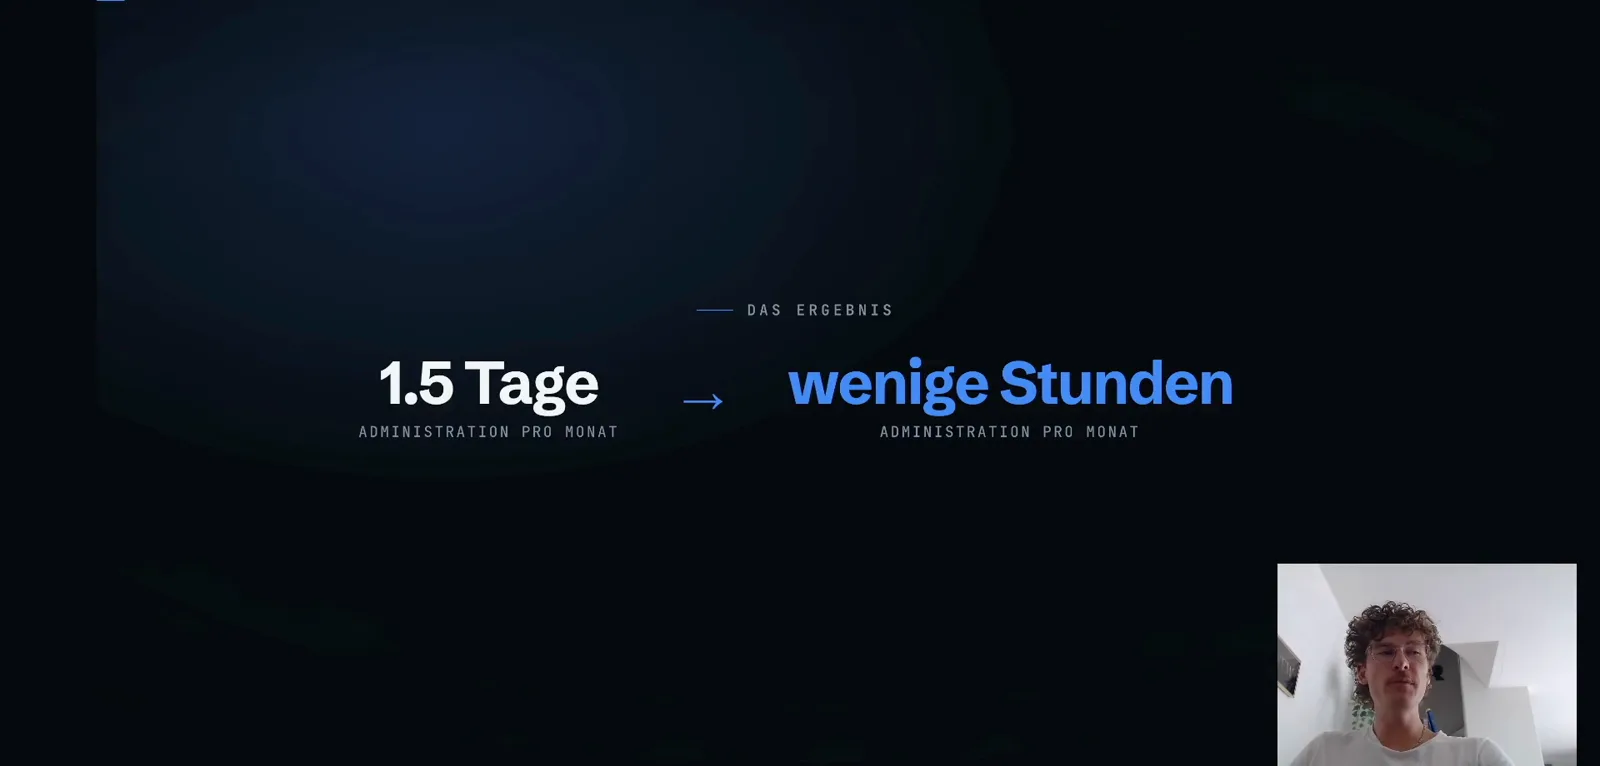
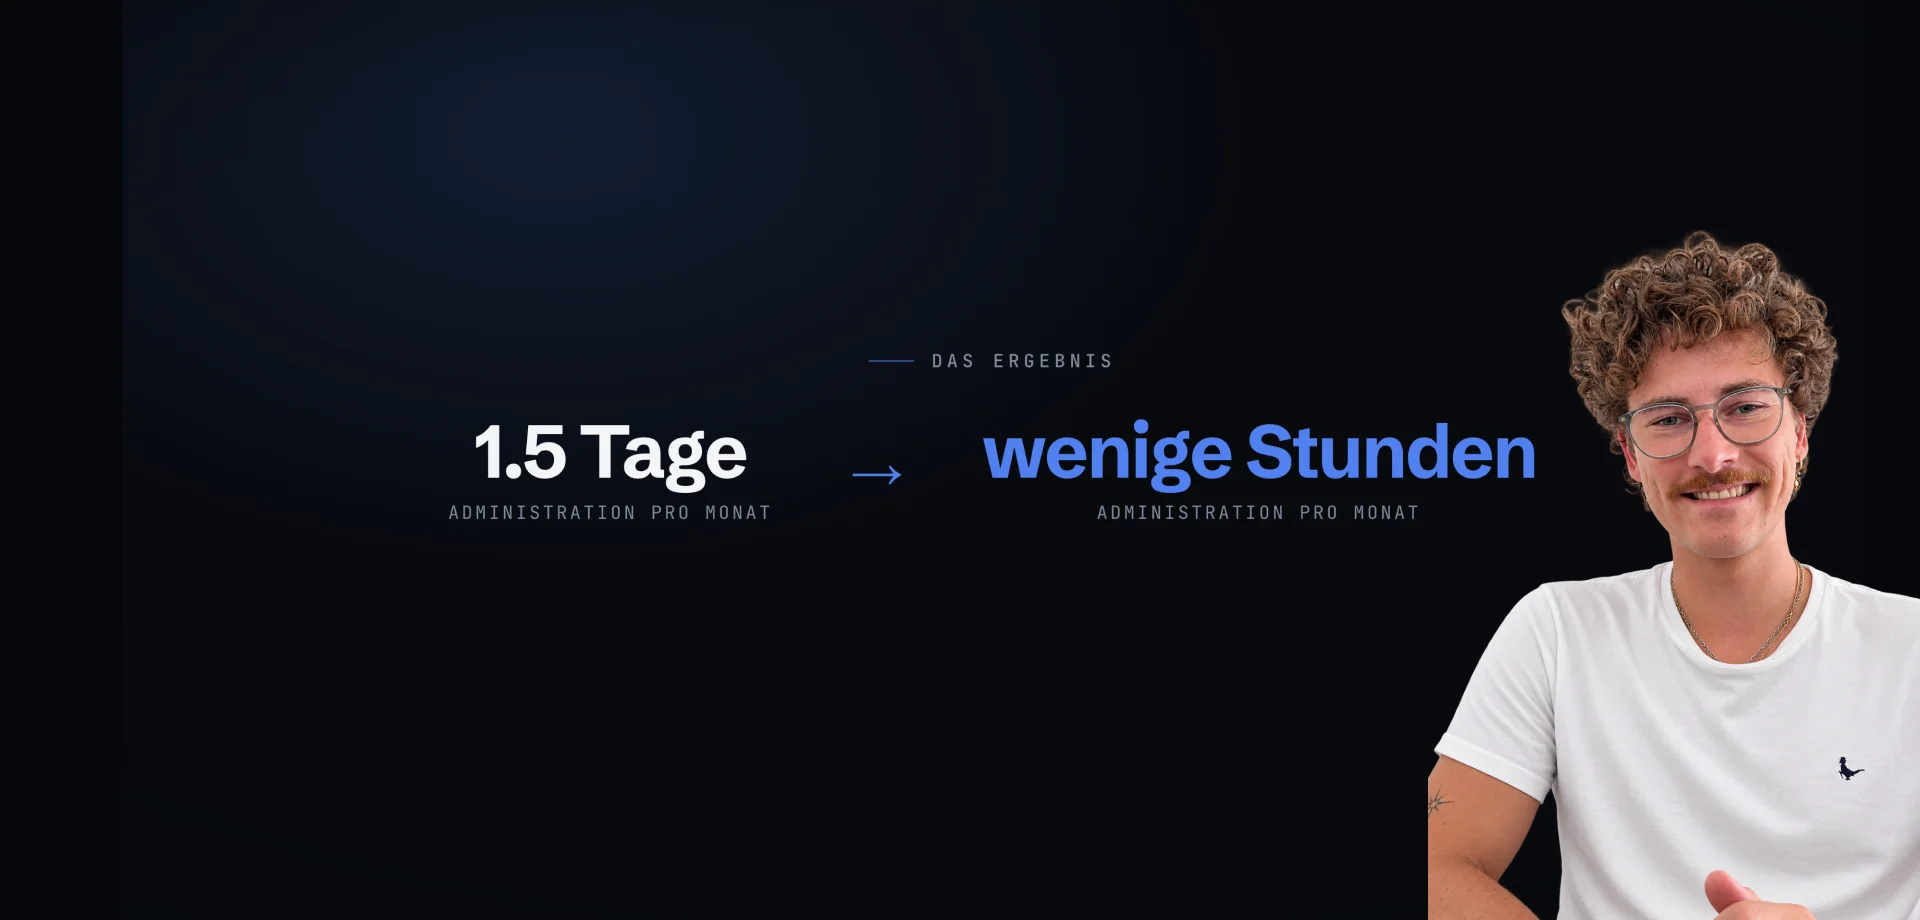
oco-start: eigenes Startbild, Reply-To und Ads-Leads aus der Kundenpipeline
Drei Korrekturen nach Durchsicht:

Startbild: eigens gestaltetes Thumbnail statt eines aus dem Video gegriffenen
Standbilds. Aussage links, Sprecher rechts freigestellt, Bildmitte frei — dort
sitzt der Play-Button, der vorher auf jedem Videostandbild im Text lag. Format
1920x920, identisch zum Video; als WebP 43 KB statt 641 KB PNG.
Das ungenutzte Feld poster.duration ist entfallen (die Laufzeit stand seit dem
Entfernen der Bild-Labels nirgends mehr).

Reply-To der Video-Mail auf info@trendingmedia.ch. Die Absenderadresse
demo@oneclick-office.ch ist faktisch ein unbetreutes Postfach — Antworten
waeren dort versandet.

Ads-Leads legen keinen Kunden mehr an: Der Trigger leads_to_kunden_pipeline
feuert nicht mehr fuer source = 'lp-start'. Wer ueber eine Anzeige ein Video
anfordert, ist kein Kunde; sonst fuellt sich die Pipeline mit Kontakten, die
nie ein Gespraech hatten. Die uebrigen Funnel bleiben unveraendert.

diff --git a/apps/oneclickoffice-start/supabase/functions/send-video-email/index.ts b/apps/oneclickoffice-start/supabase/functions/send-video-email/index.ts
@@ -37,10 +37,11 @@ const MAIL_FROM =
   Deno.env.get("VIDEO_MAIL_FROM") ??
   Deno.env.get("DEMO_MAIL_FROM") ??
   "OneClick Office <demo@oneclick-office.ch>";
+// Antworten sollen NICHT an die Absenderadresse gehen: demo@oneclick-office.ch
+// ist faktisch ein Postfach ohne Betreuung. Wer auf diese Mail antwortet, landet
+// im allgemeinen Postfach, das auch wirklich gelesen wird.
 const MAIL_REPLY_TO =
-  Deno.env.get("VIDEO_MAIL_REPLY_TO") ??
-  Deno.env.get("DEMO_MAIL_REPLY_TO") ??
-  "demo@oneclick-office.ch";
+  Deno.env.get("VIDEO_MAIL_REPLY_TO") ?? "info@trendingmedia.ch";
 
 const SITE_URL = Deno.env.get("VIDEO_SITE_URL") ?? "https://start.oneclick-office.ch";
 const VIDEO_LINK = Deno.env.get("VIDEO_LINK") ?? `${SITE_URL}/video`;

diff --git a/apps/oneclickoffice-start/src/lib/content.ts b/apps/oneclickoffice-start/src/lib/content.ts
@@ -44,9 +44,11 @@ export const optin = {
   /* Startbild des Videos. Ein Klick spielt nichts ab, sondern öffnet das
      Formular — das Video kommt erst nach dem Eintrag. */
   poster: {
+    /* Eigens gestaltetes Startbild (nicht aus dem Video gegriffen): Aussage
+       links, Sprecher rechts freigestellt. Die Bildmitte bleibt frei — dort
+       sitzt der Play-Button. Format 1920 x 920, identisch zum Video. */
     src: "/video-poster.webp",
-    alt: "Rechnungen entstehen auf einen Klick statt von Hand",
-    duration: "6:33 Minuten",
+    alt: "Aus 1.5 Tagen Administration pro Monat werden wenige Stunden",
   },
 
   /* Der eine Button. Zweizeilig wie in der Vorlage: Handlung oben, Einwand

diff --git a/apps/oneclickoffice-start/README.md b/apps/oneclickoffice-start/README.md
@@ -63,9 +63,16 @@ Der INSERT in `leads` löst drei Datenbank-Trigger aus:
 
 | Trigger | Wirkung | Gilt für |
 |---|---|---|
-| `leads_to_kunden_pipeline` | legt einen Eintrag in `clients` an (Status „interessiert"), bei bekannter E-Mail nur eine Notiz | alle Leads |
+| `leads_to_kunden_pipeline` | legt einen Eintrag in `clients` an (Status „interessiert") | alle **ausser** `lp-start` |
 | `trg_notify_new_lead` | **Telegram-Nachricht** über die Edge Function `notify-lead` | alle Leads |
 | `trg_send_video_email` | **Video-Mail** über die Edge Function `send-video-email` | nur `source = 'lp-start'` |
+
+Leads dieser Seite landen bewusst **nicht** in der Kundenpipeline: Das ist kalter
+Ad-Traffic, der ein Video angefordert hat — kein Kunde. Sonst füllt sich die
+Pipeline mit Kontakten, die nie ein Gespräch hatten.
+
+Antworten auf die Video-Mail gehen an **info@trendingmedia.ch** (Reply-To); die
+Absenderadresse `demo@oneclick-office.ch` ist faktisch ein unbetreutes Postfach.
 
 Die Video-Mail enthält den Link auf `/video` und geht über Resend raus (eigener
 OneClick-Office-Account, Domain verifiziert). Sie ist der Grund, warum das
